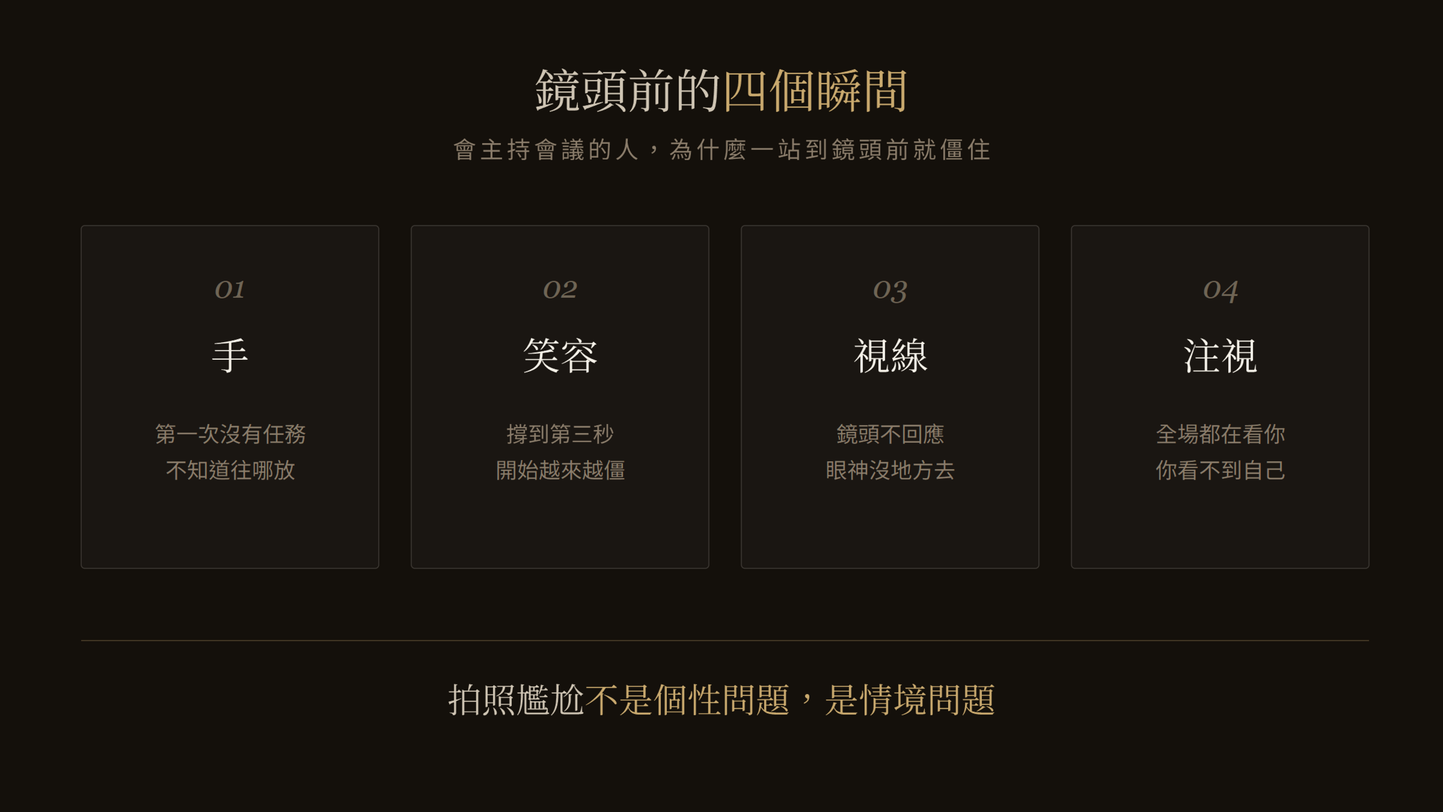
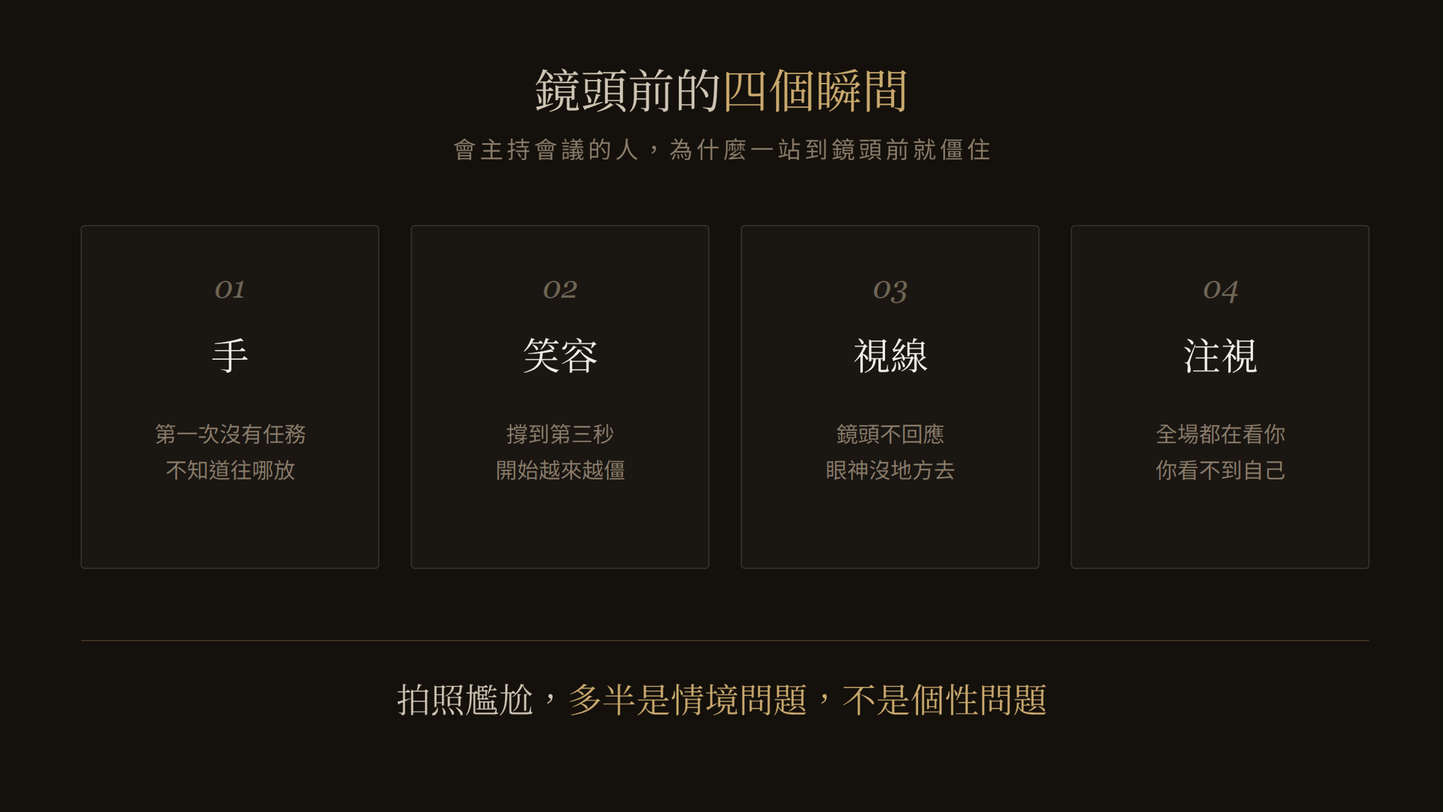
journal: 窘境四篇依 08/14 審閱檔修訂（P0+P1+P2，仍為 noindex 草稿）
P0 seeing-yourself：選片流程改回正式規格（分段檢視＋當日選片，
原「不要當天挑」與收費服務衝突）；刪「照片＝別人眼中的你」「動態平均值」
「客戶只問信任合作」；金句與 FAQ 同步；挑片改選片。

P1 camera-shy：H1 軟化為「不一定是你不會拍照」（保住鎖定詞 拍照＋尷尬）；
修手的語法、心理機制降級、刪臉部肌肉宣稱、模特兒素人不硬總結、
刪前十分鐘假精準；加 CHUN.EN 現場段＋指向 photo-directing 內鏈。

P1 photo-directing：刪睡就好了類比、視線指令改可執行版、狀態句降級、
三件事改掛 CHUN.EN 現場方法、主導權改「可主動提出需求」＋分段檢視
當日選片正式規格；hero 圖同步改字重繪。

P2 photo-expression：開場與金句改人話、刪三秒唯一、刪表情檔案、
對話段改題、三件事標成 CHUN.EN 現場方法、補指向 seeing-yourself 內鏈。

四篇成 cluster：尷尬→引導→表情→選片。

Changed region(s): [[0.2812, 0.8438, 0.7188, 0.9062]]

diff --git a/journal/seeing-yourself-in-photos.html b/journal/seeing-yourself-in-photos.html
@@ -5,21 +5,21 @@
   <meta name="robots" content="noindex" /><!-- 草稿：審核後移除此行＋掛列表頁＋入 sitemap -->
   <meta name="viewport" content="width=device-width, initial-scale=1.0, viewport-fit=cover" />
   <title>「這真的是我嗎？」看自己的照片為什麼這麼難｜CHUN.EN 觀點</title>
-  <meta name="description" content="拍攝順利結束，最難的一關卻是看片：照片裡的自己越看越陌生。從鏡像習慣、動態與靜態的差距、只有你自己在用的高標準三個原因，談挑片時的自我批評從哪裡來，以及怎麼挑才不會挑掉別人眼中最像你的那張。" />
+  <meta name="description" content="拍攝順利結束，最難的一關卻是看片：照片裡的自己越看越陌生。從鏡像習慣、瞬間與連續的差距、只有你自己在用的高標準三個原因，談選片時的自我批評從哪裡來，以及怎麼把「像不像自己」和「適不適合使用」分開看。" />
   <meta name="theme-color" content="#14100B" />
   <link rel="icon" href="/favicon.ico" sizes="48x48" />
   <link rel="icon" href="/favicon-32.png" type="image/png" sizes="32x32" />
   <link rel="apple-touch-icon" href="/apple-touch-icon.png" />
   <link rel="canonical" href="https://chunen.tw/journal/seeing-yourself-in-photos.html" />
   <meta property="og:title" content="「這真的是我嗎？」看自己的照片為什麼這麼難" />
-  <meta property="og:description" content="照片沒有背叛你，它只是第一次讓你站在別人的位置看自己。" />
+  <meta property="og:description" content="照片沒有背叛你，它只是讓你用一個不熟悉的方向，看見自己。" />
   <meta property="og:image" content="https://chunen.tw/assets/gallery/journal/seeing-yourself-in-photos-diagram-1400.png" />
   <meta property="og:url" content="https://chunen.tw/journal/seeing-yourself-in-photos.html" />
   <meta property="og:type" content="article" />
   <meta property="og:locale" content="zh_TW" />
   <meta name="twitter:card" content="summary_large_image" />
   <meta name="twitter:title" content="「這真的是我嗎？」看自己的照片為什麼這麼難" />
-  <meta name="twitter:description" content="照片沒有背叛你，它只是第一次讓你站在別人的位置看自己。" />
+  <meta name="twitter:description" content="照片沒有背叛你，它只是讓你用一個不熟悉的方向，看見自己。" />
   <meta name="twitter:image" content="https://chunen.tw/assets/gallery/journal/seeing-yourself-in-photos-diagram-1400.png" />
   <link rel="preconnect" href="https://fonts.googleapis.com" />
   <link rel="preconnect" href="https://fonts.gstatic.com" crossorigin />
@@ -81,9 +81,9 @@
       <div class="keypoints rv">
         <p class="kp-t">In This Article · 本文重點</p>
         <ul>
-          <li>你每天看的是鏡子裡的你，別人看的是照片裡的你</li>
+          <li>你最熟悉的，是鏡子裡左右相反的自己</li>
           <li>陌生感有三個來源，沒有一個代表照片拍壞了</li>
-          <li>挑片的三個做法，避免挑掉別人眼中最像你的那張</li>
+          <li>選片時先看用途與本人辨識，不要只盯著自己的臉</li>
         </ul>
       </div>
 
@@ -94,31 +94,31 @@
 
         <h2>原因一：你熟悉的是<em>鏡子裡的自己</em></h2>
         <p>你每天看到的自己來自鏡子，而鏡子裡的你是左右相反的。臉沒有完全對稱的：髮線的方向、嘴角的高低、兩眼的大小，左右都有細微的差異。幾十年下來，你熟悉的一直是那個反過來的版本。</p>
-        <p>照片不反轉。它呈現的是別人眼中的你，也就是你最不熟悉的那個方向。心理學在 1977 年就做過這個實驗：Mita 與同事讓受試者比較自己的正常照片與左右翻轉的鏡像照片，多數人偏好鏡像的版本，而他們的朋友偏好正常的版本（<a href="https://doi.org/10.1037/0022-3514.35.8.597" target="_blank" rel="noopener">研究出處</a>）。同一張臉，每個人偏好的都是自己習慣看見的那一面。</p>
-        <p>所以「不像我」更精確的說法是：不像你習慣的你，但像別人認識的你。而形象照要面對的觀眾，是後者。</p>
+        <p>一般相機照片的左右方向跟鏡子不同，所以第一次仔細看的時候，容易產生陌生感。心理學在 1977 年就做過這個實驗：Mita 與同事讓受試者比較自己的正常照片與左右翻轉的鏡像照片，多數人偏好鏡像的版本，而他們的朋友偏好正常的版本（<a href="https://doi.org/10.1037/0022-3514.35.8.597" target="_blank" rel="noopener">研究出處</a>）。同一張臉，每個人偏好的都是自己習慣看見的那一面。</p>
+        <p>所以「不像我」，有時候只是「不像我最熟悉的那個鏡像版本」。</p>
 
         <h2>原因二：別人看到的你會動，<em>照片不會</em></h2>
-        <p>平常沒有人用靜止畫面看你。你說話、點頭、比手勢，表情一直在流動，別人對你的印象是這整段動態的平均值。</p>
-        <p>照片把流動切成一格。任何人被切在單獨一格裡，都可能出現平常沒被注意過的細節：某個角度的法令紋、講話講到一半的嘴型。你盯著那一格放大檢查，但全世界只有你會用這種方式看自己的臉。</p>
-        <p>這也是為什麼挑片不建議逐張放大慢慢看。用接近實際使用的大小看：頭像就縮到頭像的大小，官網就放進版面的比例。照片是要被那樣看的，就用那個距離挑。</p>
+        <p>別人平常看到的你，是連續的表情、聲音、姿態與動作；照片只截下其中一個瞬間。</p>
+        <p>任何人被切在單獨一格裡，都可能出現平常沒被注意過的細節：某個角度的法令紋、講話講到一半的嘴型。盯著那一格放大檢查，看到的本來就不是平常被看見的樣子。</p>
+        <p>這也是為什麼選片不建議逐張放大慢慢看。用接近實際使用的大小看：頭像就縮到頭像的大小，官網就放進版面的比例。照片是要被那樣看的，就用那個距離選。</p>
 
         <h2>原因三：你對自己的標準，<em>別人從來沒用過</em></h2>
-        <p>你知道自己最上相的角度、狀態最好的時期、十年前最瘦的樣子。挑片的時候，這些全部變成比較的基準。</p>
-        <p>但別人沒有這些檔案。你的客戶不知道你哪一邊的臉比較好看，也不會拿現在的你跟十年前比。他們只問一件事：照片裡這個人，看起來可不可以信任、想不想跟他合作。</p>
-        <p>這就是挑片最弔詭的地方：你在挑「我最喜歡的我」，觀眾在看「他們需要認識的你」。兩個標準挑出來的，常常不是同一張。</p>
-        <blockquote>照片沒有背叛你，它只是第一次讓你站在別人的位置看自己。</blockquote>
+        <p>你知道自己最上相的角度、狀態最好的時期、十年前最瘦的樣子。選片的時候，這些全部變成比較的基準。</p>
+        <p>但別人沒有這些檔案。看你照片的人不知道你哪一邊的臉比較好看，也不會拿現在的你跟十年前比。對外使用的照片，除了你自己喜不喜歡，更要看它像不像現在的本人，以及適不適合預定的版位與用途。</p>
+        <p>這就是選片最弔詭的地方：你在挑「我最喜歡的我」，實際的需求卻是「像現在的本人、而且用得上的那張」。兩個標準選出來的，常常不是同一張。</p>
+        <blockquote>照片沒有背叛你，它只是讓你用一個不熟悉的方向，看見自己。</blockquote>
 
-        <h2>挑片的<em>三個做法</em></h2>
-        <p>一、不要當天挑。剛拍完的你還帶著現場的自我意識，隔幾天再看，陌生感會下降，判斷會回來。</p>
-        <p>二、找一個常見到你的人一起挑。同事、伴侶、朋友都可以。他們挑的是「平常的你」，常常正是你自己會跳過的那幾張。如果有幾張你都覺得怪、他們都說像，相信他們。</p>
-        <p>三、先想用途，再挑照片。這張要放官網還是社群？要面對客戶還是同業？用途清楚，標準就從「我喜不喜歡」變成「它能不能做事」，難度立刻下降。拍完的照片為什麼常常沒被用上，〈<a href="after-the-shoot.html">拍完形象照之後</a>〉談過四種原因。</p>
-        <p>下一次看著自己的照片皺眉頭之前，可以先問一句：我現在用的，是自己的標準，還是觀眾的標準？</p>
+        <h2>選片時，<em>先不要只盯著自己的臉</em></h2>
+        <p>一、分段看，不要每拍一張就放大檢查。在 CHUN.EN，拍攝過程本來就會分段檢視畫面，確認人物狀態、構圖與主要用途之後，再往下一組拍；方案內的選片也在當天完成，不是整場結束後你一個人對著螢幕慢慢煎熬。分段確認怎麼進行，〈<a href="photo-directing-explained.html">拍照引導其實是另一回事</a>〉有談到。</p>
+        <p>二、先看這張要用在哪裡。頭像、官網主視覺、簡報或媒體，需要的人物距離與構圖本來就不同。先確認用途，再判斷照片適不適合，標準就從「我喜不喜歡」變成「它能不能做事」，難度立刻下降。拍完的照片為什麼常常沒被用上，〈<a href="after-the-shoot.html">拍完形象照之後</a>〉談過四種原因。</p>
+        <p>三、把「像不像自己」和「適不適合使用」分開看。有些照片第一眼不是你最熟悉的角度，但仍然像本人，也符合這次要呈現的狀態與用途，不需要只因為陌生就先刪掉。一時很難判斷的話，可以參考熟悉你的人的意見，但最後仍要回到本人辨識、使用用途，和你自己對照片的接受程度一起看。</p>
+        <p>下一次看著自己的照片皺眉頭之前，可以先問一句：我是在找我最熟悉的那個鏡像，還是在找像現在的我、而且用得上的那一張？</p>
 
         <h2>常見<em>問題</em></h2>
         <div class="faq">
-          <details><summary>為什麼照片裡的自己看起來特別怪？<span class="mark">+</span></summary><div class="a">三個原因。你每天看的是鏡子裡左右相反的自己，照片呈現的是別人眼中的方向；別人平常看到的你是動態的，照片是靜止的一格；你在用只有自己才有的標準（最上相的角度、過去的樣子）檢查照片，別人沒有這些比較基準。陌生感是正常的，多數時候不代表照片拍壞了。</div></details>
-          <details><summary>挑片有什麼建議的做法？<span class="mark">+</span></summary><div class="a">三個。不要拍完當天挑，隔幾天判斷會比較準；找一個常見到你的人一起挑，他們認得平常的你；先確定每張照片的用途再挑，把標準從「喜不喜歡」換成「能不能做事」。另外，用接近實際使用的大小看照片，不要逐張放大檢查細節。</div></details>
-          <details><summary>自己挑的和別人挑的不一樣，要聽誰的？<span class="mark">+</span></summary><div class="a">看用途。形象照的觀眾是客戶與合作對象，他們看照片的方式接近「常見到你的人」，所以兩邊不一致時，值得認真考慮別人挑的那張。如果照片同時要滿足你自己的認同感，可以各留：對外用別人挑的，自己喜歡的留給自己。</div></details>
+          <details><summary>為什麼照片裡的自己看起來特別怪？<span class="mark">+</span></summary><div class="a">三個常見原因。你每天最熟悉的是鏡子裡左右相反的版本，一般照片的左右方向跟鏡子不同；別人平常看到的是連續的表情與動作，照片只截下一個瞬間；你在用只有自己才有的標準（最上相的角度、過去的樣子）檢查照片，別人沒有這些比較基準。陌生感是正常的，多數時候不代表照片拍壞了。</div></details>
+          <details><summary>選片有什麼建議的做法？<span class="mark">+</span></summary><div class="a">三個。分段看，不要每拍一張就放大檢查，在 CHUN.EN 拍攝過程會分段檢視畫面、當天完成方案內的選片；先確定每張照片的用途再選，把標準從「喜不喜歡」換成「能不能做事」；把「像不像自己」和「適不適合使用」分開判斷。另外，用接近實際使用的大小看照片，不要逐張放大檢查細節。</div></details>
+          <details><summary>自己選的和別人選的不一樣，要聽誰的？<span class="mark">+</span></summary><div class="a">可以參考熟悉你的人的意見，他們認得平常的你，常常會留下你自己一時覺得陌生的那幾張。但最後仍要回到三件事一起看：像不像現在的本人、適不適合預定的用途，以及你自己對照片的接受程度。兩邊真的不一致時，也可以各留：對外用符合用途的，自己喜歡的留給自己。</div></details>
         </div>
 
       </div>
@@ -167,7 +167,7 @@
     "@context": "https://schema.org",
     "@type": "Article",
     "headline": "「這真的是我嗎？」看自己的照片為什麼這麼難",
-    "description": "照片裡的自己特別陌生有三個原因：鏡像習慣、動態與靜態的差距、只有你自己在用的高標準。談挑片時的自我批評從哪裡來，以及怎麼挑才不會挑掉別人眼中最像你的那張。",
+    "description": "照片裡的自己特別陌生有三個原因：鏡像習慣、瞬間與連續的差距、只有你自己在用的高標準。談選片時的自我批評從哪裡來，以及怎麼把「像不像自己」和「適不適合使用」分開看。",
     "image": "https://chunen.tw/assets/gallery/journal/seeing-yourself-in-photos-diagram-1400.png",
     "author": {"@type": "Person", "@id": "https://chunen.tw/author/zoey-wu.html#zoey", "name": "吳惇恩", "alternateName": "Zoey Wu", "jobTitle": "Founder & Brand Director", "image": "https://chunen.tw/assets/images/zoey-author-640.jpg", "url": "https://chunen.tw/author/zoey-wu.html"},
     "publisher": {"@type": "Organization", "name": "CHUN.EN 形象美學", "logo": {"@type": "ImageObject", "url": "https://chunen.tw/icon-512.png"}},
@@ -184,9 +184,9 @@
     "@context": "https://schema.org",
     "@type": "FAQPage",
     "mainEntity": [
-      {"@type": "Question", "name": "為什麼照片裡的自己看起來特別怪？", "acceptedAnswer": {"@type": "Answer", "text": "三個原因。你每天看的是鏡子裡左右相反的自己，照片呈現的是別人眼中的方向；別人平常看到的你是動態的，照片是靜止的一格；你在用只有自己才有的標準（最上相的角度、過去的樣子）檢查照片，別人沒有這些比較基準。陌生感是正常的，多數時候不代表照片拍壞了。"}},
-      {"@type": "Question", "name": "挑片有什麼建議的做法？", "acceptedAnswer": {"@type": "Answer", "text": "三個。不要拍完當天挑，隔幾天判斷會比較準；找一個常見到你的人一起挑，他們認得平常的你；先確定每張照片的用途再挑，把標準從「喜不喜歡」換成「能不能做事」。另外，用接近實際使用的大小看照片，不要逐張放大檢查細節。"}},
-      {"@type": "Question", "name": "自己挑的和別人挑的不一樣，要聽誰的？", "acceptedAnswer": {"@type": "Answer", "text": "看用途。形象照的觀眾是客戶與合作對象，他們看照片的方式接近「常見到你的人」，所以兩邊不一致時，值得認真考慮別人挑的那張。如果照片同時要滿足你自己的認同感，可以各留：對外用別人挑的，自己喜歡的留給自己。"}}
+      {"@type": "Question", "name": "為什麼照片裡的自己看起來特別怪？", "acceptedAnswer": {"@type": "Answer", "text": "三個常見原因。你每天最熟悉的是鏡子裡左右相反的版本，一般照片的左右方向跟鏡子不同；別人平常看到的是連續的表情與動作，照片只截下一個瞬間；你在用只有自己才有的標準（最上相的角度、過去的樣子）檢查照片，別人沒有這些比較基準。陌生感是正常的，多數時候不代表照片拍壞了。"}},
+      {"@type": "Question", "name": "選片有什麼建議的做法？", "acceptedAnswer": {"@type": "Answer", "text": "三個。分段看，不要每拍一張就放大檢查，在 CHUN.EN 拍攝過程會分段檢視畫面、當天完成方案內的選片；先確定每張照片的用途再選，把標準從「喜不喜歡」換成「能不能做事」；把「像不像自己」和「適不適合使用」分開判斷。另外，用接近實際使用的大小看照片，不要逐張放大檢查細節。"}},
+      {"@type": "Question", "name": "自己選的和別人選的不一樣，要聽誰的？", "acceptedAnswer": {"@type": "Answer", "text": "可以參考熟悉你的人的意見，他們認得平常的你，常常會留下你自己一時覺得陌生的那幾張。但最後仍要回到三件事一起看：像不像現在的本人、適不適合預定的用途，以及你自己對照片的接受程度。兩邊真的不一致時，也可以各留：對外用符合用途的，自己喜歡的留給自己。"}}
     ]
   }
   </script>

diff --git a/journal/camera-shy-not-your-fault.html b/journal/camera-shy-not-your-fault.html
@@ -4,21 +4,21 @@
   <meta charset="UTF-8" />
   <meta name="robots" content="noindex" /><!-- 草稿：審核後移除此行＋掛列表頁＋入 sitemap -->
   <meta name="viewport" content="width=device-width, initial-scale=1.0, viewport-fit=cover" />
-  <title>拍照尷尬不是個性問題：為什麼一站到鏡頭前就不自然？｜CHUN.EN 觀點</title>
-  <meta name="description" content="會主持會議、能上台簡報，一對鏡頭就手足無措？拍照尷尬不是個性缺陷，是情境問題。拆解鏡頭前最常見的四個瞬間：手、笑容、視線、被注視，說明模特兒與素人真正的差別，以及下一次拍攝前可以先知道的三件事。" />
+  <title>拍照尷尬，不一定是你不會拍照：為什麼一到鏡頭前就不自然？｜CHUN.EN 觀點</title>
+  <meta name="description" content="會主持會議、能上台簡報，一對鏡頭就手足無措？拍照尷尬多半不是個性問題，而是情境使然。拆解鏡頭前最常見的四個瞬間：手、笑容、視線、被注視，以及下一次拍攝前可以先知道的三件事。" />
   <meta name="theme-color" content="#14100B" />
   <link rel="icon" href="/favicon.ico" sizes="48x48" />
   <link rel="icon" href="/favicon-32.png" type="image/png" sizes="32x32" />
   <link rel="apple-touch-icon" href="/apple-touch-icon.png" />
   <link rel="canonical" href="https://chunen.tw/journal/camera-shy-not-your-fault.html" />
-  <meta property="og:title" content="拍照尷尬不是個性問題：為什麼一站到鏡頭前就不自然？" />
+  <meta property="og:title" content="拍照尷尬，不一定是你不會拍照：為什麼一到鏡頭前就不自然？" />
   <meta property="og:description" content="同一個人在會議室裡從容、在鏡頭前僵硬，問題就不會出在這個人身上。" />
   <meta property="og:image" content="https://chunen.tw/assets/gallery/journal/camera-shy-not-your-fault-diagram-1400.png" />
   <meta property="og:url" content="https://chunen.tw/journal/camera-shy-not-your-fault.html" />
   <meta property="og:type" content="article" />
   <meta property="og:locale" content="zh_TW" />
   <meta name="twitter:card" content="summary_large_image" />
-  <meta name="twitter:title" content="拍照尷尬不是個性問題：為什麼一站到鏡頭前就不自然？" />
+  <meta name="twitter:title" content="拍照尷尬，不一定是你不會拍照：為什麼一到鏡頭前就不自然？" />
   <meta name="twitter:description" content="同一個人在會議室裡從容、在鏡頭前僵硬，問題就不會出在這個人身上。" />
   <meta name="twitter:image" content="https://chunen.tw/assets/gallery/journal/camera-shy-not-your-fault-diagram-1400.png" />
   <link rel="preconnect" href="https://fonts.googleapis.com" />
@@ -68,7 +68,7 @@
     <header style="padding: clamp(9rem, 16vh, 11rem) 0 clamp(2rem, 4vh, 3rem);">
       <div class="wrap article-wrap">
         <p class="hero-eyebrow rv">洞察 · Insight</p>
-        <h1 class="rv rv-d1" style="font-weight: 300; font-size: clamp(1.9rem, 4.4vw, 3.2rem); line-height: 1.4; margin-top: 1rem;"><span style="white-space:nowrap;">拍照尷尬，</span><span style="white-space:nowrap;">不是<em style="font-style:normal;color:var(--gold-light);">個性問題</em></span></h1>
+        <h1 class="rv rv-d1" style="font-weight: 300; font-size: clamp(1.9rem, 4.4vw, 3.2rem); line-height: 1.4; margin-top: 1rem;"><span style="white-space:nowrap;">拍照尷尬，</span><span style="white-space:nowrap;">不一定是<em style="font-style:normal;color:var(--gold-light);">你不會拍照</em></span></h1>
         <p class="article-meta rv rv-d2">CHUN.EN 觀點 · 2026 · 閱讀約 6 分鐘</p>
       </div>
     </header>
@@ -90,28 +90,29 @@
       <div class="article-body rv">
         <p class="article-lead">「我很不會拍照。」</p>
         <p>說這句話的人，多半不是真的不會拍照。他們會主持會議、能上台簡報、可以在陌生客戶面前談一個小時的案子，卻在鏡頭舉起來的那一刻，手不知道往哪放，笑容越撐越僵。</p>
-        <p>網路上的自嘲說法很多：尷尬癌、鏡頭恐懼症。這些詞把問題講成了個人的毛病。但如果同一個人在會議室裡從容、在鏡頭前僵硬，問題就不會出在這個人身上。<strong>拍照尷尬是情境問題，不是個性問題。</strong>這一篇把那個情境拆開來看。</p>
+        <p>網路上的自嘲說法很多：尷尬癌、鏡頭恐懼症。這些詞把問題講成了個人的毛病。但如果同一個人在會議室裡從容、在鏡頭前僵硬，問題多半就不在這個人身上。<strong>拍照尷尬，通常是情境問題，不是個性問題。</strong>這一篇把那個情境拆開來看。</p>
 
         <h2>為什麼平常不尷尬的人，<em>鏡頭前會尷尬</em></h2>
-        <p>先看平常。跟人說話的時候，你的手勢、表情、視線都跟著對話走，沒有一樣需要用想的。因為對面有一個人在給你回應：他點頭，你繼續講；他笑，你也笑。表情是互動的副產品，不是獨立的動作。</p>
-        <p>鏡頭把這個循環切斷了。它看著你，但不回應你。沒有回應，表情就失去了校準的對象，只好回頭問自己：「我現在看起來怎麼樣？」注意力一旦轉向自己，原本自動運作的東西就全部變成手動。手要用想的、嘴角要用想的、眼睛要用想的，然後就僵了。</p>
+        <p>先看平常。跟人說話的時候，我們很少刻意控制每一個手勢、嘴角和眼神，因為對面有一個人在給你回應：他點頭，你繼續講；他笑，你也笑。</p>
+        <p>鏡頭不一樣。它看著你，但不回應你。少了回應，注意力就容易突然轉到「我現在看起來怎麼樣」，原本自然的動作也開始變得刻意。手要用想的、嘴角要用想的、眼睛要用想的，然後就僵了。</p>
         <p>這也是為什麼「多練習擺表情」常常沒有用。問題不在表情的庫存不夠，在注意力的位置不對。表情與眼神的具體練法，〈<a href="photo-expression-practice.html">拍照表情不自然？先別急著練笑</a>〉整理過，這一篇先把更根本的事講清楚：你不是天生不上相。</p>
 
         <h2>四個瞬間，<em>每一個都有原因</em></h2>
-        <p><strong>手不知道放哪。</strong>平常你的手一直在做事：拿杯子、打字、比劃。鏡頭前的手第一次沒有任務，而沒有任務的手，站著就是多餘的。這不是你笨拙，是手真的沒事做。</p>
-        <p><strong>笑容越撐越僵。</strong>日常的笑兩三秒就過去了，鏡頭前的笑常常要維持十秒以上。臉部的肌肉不是為了「維持」設計的，撐久了自然鬆掉，於是你再用力，就更不像笑。</p>
+        <p><strong>手不知道放哪。</strong>平常手會拿東西、打字，或配合說話做動作；到了鏡頭前突然什麼都不用做，很多人才第一次開始注意「手到底要放哪裡」。這不是你笨拙，是手真的沒事做。</p>
+        <p><strong>笑容越撐越僵。</strong>日常的笑兩三秒就過去了，鏡頭前的笑常常要維持十秒以上。要求一個笑容停留太久，本來就容易開始變得用力，於是你再撐，就更不像笑。</p>
         <p><strong>視線沒地方去。</strong>看鏡頭像看一面不會回話的牆。平常說話時，視線會在對方的眼睛、嘴角、遠方之間自然移動；對著一顆鏡片，移動的理由消失了，眼神就空了。</p>
         <p><strong>全場都在看你。</strong>攝影師、化妝師，可能還有陪你來的同事。你成了現場唯一被看、卻看不到自己的人。這種單向的注視，日常生活裡幾乎不存在，第一次遇到會不知所措，再正常不過。</p>
         <blockquote>鏡頭前的不自然，不是你的問題，是那個情境本來就不自然。</blockquote>
 
-        <h2>模特兒與素人的差別，<em>不在臉</em></h2>
-        <p>很多人以為模特兒上相，是因為長得好看。看過現場就知道不是：模特兒把攝影棚當成自己的主場。他們知道流程、聽得懂指令、拍壞了笑一笑重來，不覺得自己耽誤了誰。</p>
-        <p>素人正好相反。多數人一走進拍攝現場，就自動切換成客人模式：不好意思提問、聽不懂術語也點頭、髮型不喜歡不敢說，連拍不好都想跟攝影師道歉。整場拍攝，他都在努力當一個不添麻煩的人。</p>
-        <p>但被拍的人才是這場拍攝的主角。當你把所有力氣拿去配合現場，照片裡留下來的，就是那個小心翼翼的你。<strong>素人與模特兒的差別，不在臉，在誰覺得這個場子是自己的。</strong></p>
-        <p>所以一場好的拍攝，真正該發生的事是反過來的：不是你去適應現場，是現場來接住你。聽不懂的指令可以直接說聽不懂，緊張可以講出來，想先看幾張確認方向，也完全可以提出。這些不是不專業，是你在拿回這場拍攝的主場。</p>
+        <h2>模特兒與素人的差別，<em>不只是上相</em></h2>
+        <p>很多人以為模特兒上相，是因為長得好看。更大的差別其實是：模特兒熟悉拍攝流程、聽得懂指令、拍壞了笑一笑重來，不覺得自己耽誤了誰；第一次進攝影現場的人，往往需要更多時間理解現場會怎麼進行。</p>
+        <p>而且多數素人一走進拍攝現場，就自動切換成客人模式：不好意思提問、聽不懂術語也點頭、髮型不喜歡不敢說，連拍不好都想跟攝影師道歉。整場拍攝，他都在努力當一個不添麻煩的人。</p>
+        <p>但被拍的人才是這場拍攝的主角。當你把所有力氣拿去配合現場，照片裡留下來的，常常就是那個小心翼翼的你。</p>
+        <p>所以一場好的拍攝，真正該發生的事是反過來的：不是你去適應現場，是現場來接住你。聽不懂的指令可以直接說聽不懂，緊張可以講出來，想先看幾張確認方向，也完全可以提出。這些不是不專業，是你在把這場拍攝要回自己手上。</p>
+        <p>在 CHUN.EN 的拍攝現場，不會假設每個人一站上鏡頭就知道怎麼做。前段會先熟悉拍攝節奏，過程中也會分段看畫面；哪個指令聽不懂、哪個姿勢不舒服，都可以直接提出。至於拍攝現場到底怎麼引導，〈<a href="photo-directing-explained.html">拍照引導其實是另一回事</a>〉整篇在談這件事。</p>
 
         <h2>下一次站上鏡頭前，<em>可以先知道的三件事</em></h2>
-        <p>一、尷尬會過去。幾乎所有人前十分鐘都僵，聊開之後狀態才出來。很多最後被選中的照片，是在當事人以為還沒開始拍的空檔按下的。給自己一點暖場的時間，不要用前十分鐘的感覺評價整場。</p>
+        <p>一、尷尬會過去。不少人需要一段時間才會進入拍攝狀態，聊開之後才慢慢出來。很多最後被選中的照片，是在當事人以為還沒開始拍的空檔按下的。給自己一點暖場的時間，不要用剛開始的感覺評價整場。</p>
         <p>二、你有權要求。想知道現在拍起來的樣子，可以請攝影師給你看幾張；看了不喜歡，也可以說。一個值得信任的現場，不會因為你提出想法而不耐煩。</p>
         <p>三、緊張可以說出口。「我很容易僵，可能需要一點時間」這句話一說出來，現場就能為你調整節奏。撐著不說，反而會把那份用力留在照片裡。</p>
         <p>下一次鏡頭舉起來，如果又開始不知道手該放哪，可以想起這件事：僵住的不是你，是被切斷回應的那個情境。而情境，是可以被安排的。</p>
@@ -170,7 +171,7 @@
   {
     "@context": "https://schema.org",
     "@type": "Article",
-    "headline": "拍照尷尬不是個性問題：為什麼一站到鏡頭前就不自然？",
+    "headline": "拍照尷尬，不一定是你不會拍照：為什麼一到鏡頭前就不自然？",
     "description": "拍照尷尬不是個性缺陷，是情境問題。拆解鏡頭前最常見的四個瞬間：手、笑容、視線、被注視，說明模特兒與素人真正的差別，以及下一次拍攝前可以先知道的三件事。",
     "image": "https://chunen.tw/assets/gallery/journal/camera-shy-not-your-fault-diagram-1400.png",
     "author": {"@type": "Person", "@id": "https://chunen.tw/author/zoey-wu.html#zoey", "name": "吳惇恩", "alternateName": "Zoey Wu", "jobTitle": "Founder & Brand Director", "image": "https://chunen.tw/assets/images/zoey-author-640.jpg", "url": "https://chunen.tw/author/zoey-wu.html"},
@@ -203,7 +204,7 @@
     "itemListElement": [
       {"@type": "ListItem", "position": 1, "name": "首頁", "item": "https://chunen.tw/"},
       {"@type": "ListItem", "position": 2, "name": "專欄", "item": "https://chunen.tw/journal/"},
-      {"@type": "ListItem", "position": 3, "name": "拍照尷尬不是個性問題", "item": "https://chunen.tw/journal/camera-shy-not-your-fault.html"}
+      {"@type": "ListItem", "position": 3, "name": "拍照尷尬，不一定是你不會拍照", "item": "https://chunen.tw/journal/camera-shy-not-your-fault.html"}
     ]
   }
   </script>

diff --git a/journal/photo-expression-practice.html b/journal/photo-expression-practice.html
@@ -88,9 +88,9 @@
       </div>
 
       <div class="article-body rv">
-        <p class="article-lead">「我不是模特兒，鏡頭一對著我，臉就不知道該放在哪裡。」</p>
-        <p>這是拍攝現場最常聽到的一句話，講的人多半是各行各業已經很熟練的專業工作者。他們能在會議室裡談判、在台上講兩小時的課，卻在快門前僵住三秒。</p>
-        <p>僵住的原因不在五官，而是那三秒裡，腦袋裡唯一在想的事情，就是自己的臉。<strong>所以要準備的，不是一張練好的表情，是可以想的東西。</strong>這一篇整理現場實際會處理的三件事，以及拍攝之前你可以先做的四種練習。</p>
+        <p class="article-lead">「我不是模特兒，鏡頭一對著我，就不知道要怎麼看、怎麼笑。」</p>
+        <p>這是拍攝現場最常聽到的一句話，講的人多半是各行各業已經很熟練的專業工作者。他們能在會議室裡談判、在台上講兩小時的課，卻在快門前僵住。</p>
+        <p>一個常見的情況是，鏡頭一出現，注意力突然全部跑到自己的表情上。<strong>所以拍攝前不必先練好一個表情，可以先準備幾件你很自然就能聊起來的事。</strong>這一篇整理現場實際會處理的三件事，以及拍攝之前你可以先做的四種練習。</p>
 
         <figure class="article-diagram">
           <p class="dc-lead">現場會先整理的三件事（左右滑動）</p>
@@ -143,7 +143,7 @@
         <p>十九世紀的 Duchenne 曾經觀察到，某些笑容除了嘴角上揚，也會牽動眼睛周圍的肌肉，後來的研究把這一類表情稱作 Duchenne smile。不過對拍攝來說，不需要把它簡化成真笑與假笑的二分法。</p>
         <p>比較實際的說法是：當注意力只剩下「嘴角要怎麼擺、眼睛要怎麼看」，表情容易變得刻意；把注意力放回正在想的人、正在講的事情上，通常比較有機會出現自然的變化。所以現場真正要處理的，不是教你一個固定的笑。</p>
 
-        <h2>現場會先整理三件事：<em>焦點、對象、內容</em></h2>
+        <h2>CHUN.EN 現場常用的整理方式：<em>焦點、對象、內容</em></h2>
         <p>先說清楚，這不是表情公式，也不是誰驗證過的三要件。它是一個讓注意力有地方可去的方法，順序也可以調。</p>
         <p><strong>焦點。</strong>「看鏡頭」對第一次拍攝的人來說，有時候還是太抽象。現場會把目標縮小一點，例如看鏡片中央的一個位置，或是直接看攝影師指定的方向。視線有一個明確的落點，比一直提醒自己「眼神要有精神」容易得多。</p>
         <p><strong>對象。</strong>如果這張照片主要用在官網，可以想像自己正在面對平常真的會接觸的客戶；如果是招生內容，也可以換成平常會對話的學生或家長。這個練習不是為了演出某一種眼神，而是讓視線不只剩下「我正在被拍」。</p>
@@ -153,8 +153,8 @@
         <h2>拍攝現場做的事，<em>是把注意力從臉上移開</em></h2>
         <p>知道原理之後，現場那些看起來像氣氛營造的安排，就會變得比較好懂。</p>
         <p><strong>現場也會使用音樂。</strong>對有些人來說，熟悉的音樂會讓環境比較不像正式的拍攝現場，也比較容易找到自己的節奏。這也是為什麼我們會先問客戶平常聽什麼。但每個人的反應不一樣，歌單是輔助，不是讓表情自然的必要條件。</p>
-        <p><strong>情境取代表情指令。</strong>與其說「笑一個」，不如說「你現在正在對一位考慮很久的客戶說明這個方案」。表情指令啟動的是表演，情境給的是可以想的東西，而想的東西才會長出表情。</p>
-        <p><strong>對話拖得比你以為的久。</strong>很多人最後選中的那一張，是在他以為還沒開始拍、或是以為已經拍完的空檔按下的。那個空檔不是浪費時間，它就是工作本身。</p>
+        <p><strong>情境取代表情指令。</strong>與其說「笑一個」，不如說「你現在正在對一位考慮很久的客戶說明這個方案」。有一個具體的人或情境可以想，比直接被要求「笑一個」更容易帶出表情的變化。</p>
+        <p><strong>拍攝中也會保留對話與空檔。</strong>很多人最後選中的那一張，是在他以為還沒開始拍、或是以為已經拍完的空檔按下的。那個空檔不是浪費時間，它就是工作本身。</p>
         <p>這一段之所以要寫出來，是因為它決定了你跟現場的分工：<strong>現場負責把干擾移走，你負責把可以想的東西帶來。</strong>姿勢與手怎麼擺是另一件事，這一篇只處理表情與眼神。<!-- 內鏈暫拆（posing-guide-for-portraits 尚未公開）：上架後恢復〈<a href="posing-guide-for-portraits.html">形象照姿勢怎麼擺</a>〉 --></p>
 
         <h2>四種練習，<em>練的不是表情</em></h2>
@@ -186,17 +186,17 @@
           </tbody>
         </table>
         </div>
-        <p>要特別提醒的是最後一件事的反面：<strong>不要對著鏡子練一個固定的笑。</strong>練出來的表情會變成一個檔案，一叫就出來，而且每一張都一樣。整組照片看下來，觀看的人會感覺到那份重複。真正要練的是怎麼進入狀態，不是練一個表情。</p>
+        <p>要特別提醒的是最後一件事的反面：<strong>不要對著鏡子練一個固定的笑。</strong>只練一個固定笑容，拍攝時很容易每張都回到同一個表情，整組照片看下來，觀看的人會感覺到那份重複。真正要練的是怎麼進入狀態，不是練一個表情。</p>
         <p>至於哪一種神情適合你這一次的用途，那是拍攝之前的方向問題，〈<a href="which-version-of-you.html">哪一個版本的你，該被拍下來</a>〉談的就是這件事。</p>
 
         <h2>如果你真的<em>很容易緊張</em></h2>
         <p>緊張不是需要先克服掉才能開始拍的東西。有些人需要一段時間才會進入拍攝狀態，開始聊自己熟悉的事情、也熟悉了拍攝的節奏之後，緊張通常會慢慢下降。</p>
         <p>比較不建議的是硬撐。現場如果知道你正在緊張，可以調整順序，先拍動作、先聊天、先從半身開始，把最需要眼神的那幾張往後放。撐著不說，反而會把那份用力留在照片裡。</p>
-        <p>另外一半的緊張其實來自準備。睡眠、時間、衣服有沒有先確認過，都會影響當天的狀態。<!-- 內鏈暫拆（portrait-preparation-checklist 尚未公開）：上架後恢復〈<a href="portrait-preparation-checklist.html">拍形象照前的注意事項</a>〉 --></p>
+        <p>另外，有些緊張其實和拍攝前的準備有關。睡眠、時間、衣服有沒有先確認過，都會影響當天的狀態。<!-- 內鏈暫拆（portrait-preparation-checklist 尚未公開）：上架後恢復〈<a href="portrait-preparation-checklist.html">拍形象照前的注意事項</a>〉 --></p>
 
         <h2>拍攝當天，<em>你其實只要帶一樣東西</em></h2>
         <p>不是完美的表情，也不是練好的角度。是那三個你講起來會忘記自己正在被看的話題。</p>
-        <p>剩下的，現場會接手。音樂、情境、節奏、快門的時機，那些是攝影師的工作。你要做的，只是把注意力放回一個具體的人跟一句具體的話上面。</p>
+        <p>剩下的，現場會接手。音樂、情境、節奏、快門的時機，那些是攝影師的工作。你要做的，只是把注意力放回一個具體的人跟一句具體的話上面。至於拍完之後，為什麼照片裡的自己看起來陌生，〈<a href="seeing-yourself-in-photos.html">看自己的照片為什麼這麼難</a>〉接著談。</p>
         <p>下一次鏡頭舉起來的時候，你心裡想的，會是「我的臉現在看起來怎麼樣」，還是「我正在對誰說話」？</p>
 
         <h2>常見<em>問題</em></h2>

diff --git a/journal/photo-directing-explained.html b/journal/photo-directing-explained.html
@@ -93,22 +93,22 @@
         <p>這不是你的錯，也未必是喊的人不專業。是這句指令本身有問題：<strong>「自然」是結果，不是動作。</strong>身體能執行的是動作，而沒有一條肌肉叫做自然。</p>
 
         <h2>做不到的指令，<em>都長同一個樣子</em></h2>
-        <p>回想那些讓你更慌的指令：放輕鬆、有精神一點、做自己就好。它們的共同點是，都在描述一種狀態，卻沒有告訴你怎麼到那裡。就像對睡不著的人說「睡就好了」，方向正確，毫無幫助。</p>
-        <p>狀態沒辦法直接執行，但動作可以。「肩膀往下沉，吐一口氣」做得到；「看鏡片中央，數到三再看回我」做得到；「想著你正要對一位老客戶說明最有把握的那個方案」也做得到。做得到的動作累積起來，狀態自己會出現。</p>
+        <p>回想那些讓你更慌的指令：放輕鬆、有精神一點、做自己就好。它們的共同點是，都在描述想要的結果，卻沒有告訴被拍的人下一步可以做什麼。</p>
+        <p>狀態沒辦法直接執行，但動作可以。「肩膀往下沉，吐一口氣」做得到；「先閉上眼睛，數到三，睜開之後看向我」做得到；「想著你正要對一位老客戶說明最有把握的那個方案」也做得到。把抽象的要求拆成可以執行的動作，人通常比較容易慢慢進入需要的狀態。</p>
         <p>這就是口令和引導的差別。口令描述終點，引導給你路徑。</p>
         <blockquote>口令描述終點，引導給你路徑。</blockquote>
 
-        <h2>引導在做的，<em>其實是三件事</em></h2>
-        <p>把狀態翻譯成動作，只是最表層的一件。看過夠多素人的拍攝，會發現真正有效的引導同時在處理三件事。</p>
+        <h2>CHUN.EN 現場常處理的，<em>其實是三件事</em></h2>
+        <p>把狀態翻譯成動作，只是最表層的一件。在我們的拍攝現場，引導通常同時在處理三件事。</p>
         <p><strong>把注意力從你的臉上移開。</strong>話題、情境、甚至現場放的音樂，目的都一樣：讓你有別的事情可想。表情是注意力的副產品，注意力去了對的地方，表情自己會跟上。這一層的具體做法，〈<a href="photo-expression-practice.html">拍照表情不自然？先別急著練笑</a>〉談得更細。</p>
         <p><strong>把回應補回來。</strong>鏡頭最大的問題是它不回應你，所以引導的人要一直說話：告訴你剛剛那張很好、告訴你現在在拍什麼、在你不知道的時候按下快門。你以為的閒聊，其實是在代替鏡頭給你回應。</p>
         <p><strong>把主場還給你。</strong>這是最少被講出來的一件。多數素人一進拍攝現場就切換成客人模式，什麼都配合、什麼都不敢問，為什麼會這樣，〈<a href="camera-shy-not-your-fault.html">拍照尷尬不是個性問題</a>〉拆解過。好的引導會反過來，讓你敢說「我聽不懂」、敢說「我不喜歡剛剛那張」、敢提出「可以先拍坐姿嗎」。被拍的人越敢開口，照片就越像他自己。</p>
 
-        <h2>現場的主導權，<em>有一半在你手上</em></h2>
-        <p>引導是現場的工作，但有三句話，你可以自己帶去，把另一半主導權先拿回來。</p>
+        <h2>被拍的人，<em>也可以主動提出需求</em></h2>
+        <p>CHUN.EN 的拍攝會分段檢視畫面，不是整場拍完才第一次看到結果；過程中會確認人物狀態、構圖與主要用途，並在當天完成方案內的選片。所以提出需求不是打斷流程，它本來就是流程的一部分。有三句話，你可以自己帶去現場。</p>
         <p>第一句：「我第一次拍，前面可能會比較僵。」這句話讓現場知道要給你暖場的時間，把最重要的畫面排到後面。</p>
         <p>第二句：「我聽不懂的時候會直接問。」先把這句說出口，之後每一次發問都不需要重新鼓起勇氣。</p>
-        <p>第三句：「拍到一個段落，我想看幾張。」中途確認方向，比拍完才發現不對省得多。</p>
+        <p>第三句：「這個姿勢我不太舒服」或「這個角度我不太像自己」。當下說出來，現場當下就能調整；悶到選片時才說，能補救的就少了。</p>
         <p>這三句話沒有一句需要專業知識。它們做的事情只有一件：把你從配合的客人，變回這場拍攝的主角。</p>
         <p>下一次有人對你喊「自然一點」，你會繼續用力放鬆，還是問一句：「可以告訴我，具體要做什麼嗎？」</p>
 
